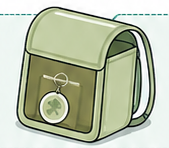
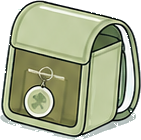
学校向け資料の4ページを issue の指摘どおりに調整
1ページ目は差し替え用PDFに合わせて、リード文を「学校法人・教育関係者様へ」に
変え、見出しから帯のアイコン見出しまで文字サイズと位置をPDFの実測値に揃えた。
本文の文言は変わっていない。

2ページ目
- 教育現場の課題／求められること の各タイトル・説明文を左寄せにし、
  アイコンと列の左端を揃えた
- 「園児・生徒の安全に関する不安」が枠幅ぎりぎりで、フォント次第で
  「に」だけ折り返していたため枠を広げた
- 課題の説明文を大きくし、収まるようにブロック全体を少し上げた

3ページ目
- STEP1の説明を3行にし、イラストと重ならない位置まで下げた
- カバンのイラストから焼き込まれていた点線枠と白背景を落として透過にし、
  点線枠の中に収めた。枠の中はグリーン一色になる
- 「園児・児童の安心・安全を高める」を「園児・児童の安全を高める」に変更

4ページ目
- 活用シーンの枠を広げ、画像と説明文が枠から出ないようにした
- 防犯グッズの画像を小さくし、下のラベルとの重なりを解消
- 問い合わせ先のアイコンを拡大し、TEL/MAIL/公式サイトの各行に合わせた
- 矢印画像を上にずらし、「まずはお気軽に〜」との重なりを解消
- 左右下部の角のイラストを削除（使わなくなった画像も削除）

Closes #7
Closes #8
Closes #9
Closes #10
Closes #11
Closes #12
Closes #13
Closes #14
Closes #15

diff --git a/flyers/school/index.html b/flyers/school/index.html
@@ -35,26 +35,26 @@
   <div class="a" style="left:6.2%;top:6.7%;width:29%;border-bottom:0.25cqw solid var(--teal2);z-index:2;"></div>
   <div class="a" style="left:35.4%;top:6.25%;width:0.9cqw;height:0.9cqw;background:var(--teal2);border-radius:50%;z-index:2;"></div>
 
-  <div class="t teal bold" style="left:6.5%;top:4.3%;width:31%;font-size:1.75cqw;">学校法人・教育機関向け</div>
-  <div class="t black heavy lh-tight" style="left:6.0%;top:9.7%;width:37%;font-size:4.15cqw;">迷子・忘れ物解決<br>ICタグ/システム</div>
-  <div class="t dark heavy" style="left:5.6%;top:23.0%;width:49%;font-size:5.8cqw;">児童に持たせる</div>
-  <div class="t teal display" style="left:5.3%;top:29.2%;width:18%;font-size:9.2cqw;">安心</div>
-  <div class="t dark heavy" style="left:25.8%;top:31.0%;width:34%;font-size:5.8cqw;">のお守り。</div>
-  <div class="t teal bold lh-wide" style="left:6.0%;top:38.1%;width:46%;font-size:2.05cqw;">迷子・忘れ物対策を、個人情報を守りながら、<br>もっとスムーズに。</div>
+  <div class="t teal bold" style="left:6.4%;top:3.4%;width:35%;font-size:2.19cqw;">学校法人・教育関係者様へ</div>
+  <div class="t black heavy" style="left:6.0%;top:8.6%;width:40%;font-size:4.12cqw;line-height:1.36;">迷子・忘れ物解決<br>ICタグ/システム</div>
+  <div class="t dark heavy" style="left:5.0%;top:20.9%;width:52%;font-size:6.58cqw;">児童に持たせる</div>
+  <div class="t teal display" style="left:5.0%;top:28.3%;width:22%;font-size:9.75cqw;">安心</div>
+  <div class="t dark heavy" style="left:25.8%;top:29.2%;width:36%;font-size:6.58cqw;">のお守り。</div>
+  <div class="t teal bold" style="left:6.0%;top:36.9%;width:50%;font-size:2.19cqw;line-height:1.72;">迷子・忘れ物対策を、個人情報を守りながら、<br>もっとスムーズに。</div>
   <div class="a" style="left:6.0%;top:44.3%;width:44%;border-bottom:0.32cqw dotted var(--teal2);z-index:2;"></div>
-  <div class="t dark bold lh-body" style="left:6.0%;top:45.6%;width:46%;font-size:1.7cqw;">このサービスは、ICタグとスマートフォンを<br>活用した迷子・忘れ物解決システムです。<br>キーホルダーやランドセルカバーなどにICタグを内蔵し、<br>園児・児童一人ひとりに“もしもの時の連絡手段”を<br>持たせることができます。<br>発見者は、スマートフォンをICタグにかざすだけで<br>持ち主・保護者と匿名で連絡ができるため、<br>氏名・電話番号・住所などの個人情報を<br>外側に表示する必要がありません。</div>
-  <div class="t teal bold center" style="left:7.6%;top:77.6%;width:8%;font-size:1.55cqw;">発見</div>
-  <div class="t teal bold center" style="left:21.0%;top:77.6%;width:14%;font-size:1.55cqw;">スマホでかざす</div>
-  <div class="t teal bold center" style="left:36.6%;top:77.6%;width:8%;font-size:1.55cqw;">匿名で連絡</div>
-  <div class="t teal bold center" style="left:3%;top:85.1%;width:94%;font-size:2.0cqw;">＼　園・学校全体で取り組む、安心の仕組み。　／</div>
-  <div class="t navy bold center" style="left:2.8%;top:94.4%;width:10.5%;font-size:1.38cqw;">全校配布</div>
-  <div class="t navy bold center" style="left:14.1%;top:94.4%;width:10.5%;font-size:1.38cqw;">入学記念品</div>
-  <div class="t navy bold center lh-tight" style="left:25.4%;top:94.0%;width:11.6%;font-size:1.35cqw;">ランドセル<br>カバー</div>
-  <div class="t navy bold center" style="left:37.4%;top:94.0%;width:11.2%;font-size:1.3cqw;">通学キーホルダー</div>
-  <div class="t navy bold center" style="left:49.5%;top:94.4%;width:10.4%;font-size:1.35cqw;">忘れ物対策</div>
-  <div class="t navy bold center" style="left:61.0%;top:94.4%;width:10.4%;font-size:1.35cqw;">迷子対策</div>
-  <div class="t navy bold center" style="left:72.5%;top:94.4%;width:11.0%;font-size:1.3cqw;">個人情報保護</div>
-  <div class="t navy bold center lh-tight" style="left:84.3%;top:94.0%;width:12.5%;font-size:1.28cqw;">保護者への<br>安心提供</div>
+  <div class="t dark bold" style="left:6.0%;top:44.9%;width:48%;font-size:1.76cqw;line-height:1.92;">このサービスは、ICタグとスマートフォンを<br>活用した迷子・忘れ物解決システムです。<br>キーホルダーやランドセルカバーなどにICタグを内蔵し、<br>園児・児童一人ひとりに“もしもの時の連絡手段”を<br>持たせることができます。<br>発見者は、スマートフォンをICタグにかざすだけで<br>持ち主・保護者と匿名で連絡ができるため、<br>氏名・電話番号・住所などの個人情報を<br>外側に表示する必要がありません。</div>
+  <div class="t teal bold center" style="left:7.9%;top:77.1%;width:8%;font-size:1.68cqw;">発見</div>
+  <div class="t teal bold center" style="left:20.1%;top:77.1%;width:14%;font-size:1.68cqw;">スマホでかざす</div>
+  <div class="t teal bold center" style="left:36.4%;top:77.1%;width:13%;font-size:1.68cqw;">匿名で連絡</div>
+  <div class="t teal bold center" style="left:3%;top:84.4%;width:94%;font-size:2.19cqw;">＼　園・学校全体で取り組む、安心の仕組み。　／</div>
+  <div class="t navy bold center" style="left:2.9%;top:94.1%;width:12%;font-size:1.68cqw;">全校配布</div>
+  <div class="t navy bold center" style="left:14.8%;top:94.1%;width:12%;font-size:1.68cqw;">入学記念品</div>
+  <div class="t navy bold center" style="left:25.8%;top:93.4%;width:12%;font-size:1.68cqw;line-height:1.35;">ランドセル<br>カバー</div>
+  <div class="t navy bold center" style="left:37.9%;top:93.4%;width:13%;font-size:1.68cqw;line-height:1.35;">通学<br>キーホルダー</div>
+  <div class="t navy bold center" style="left:50.9%;top:94.1%;width:12%;font-size:1.68cqw;">忘れ物対策</div>
+  <div class="t navy bold center" style="left:62.9%;top:94.1%;width:12%;font-size:1.68cqw;">迷子対策</div>
+  <div class="t navy bold center" style="left:74.0%;top:94.1%;width:12.5%;font-size:1.68cqw;">個人情報保護</div>
+  <div class="t navy bold center" style="left:85.6%;top:93.4%;width:13%;font-size:1.68cqw;line-height:1.35;">保護者への<br>安心提供</div>
 </section>
 
 <!-- ============ 2ページ目 ============ -->
@@ -68,23 +68,23 @@
   <div class="t dark bold center lh-wide" style="left:2.5%;top:20.4%;width:58%;font-size:1.55cqw;">日々の生活や通園・通学の中で、迷子や忘れ物は誰にでも起こりうること。<br>しかし、現場では<span class="orange">多くの時間と手間が取られています。</span></div>
 
   <!-- 教育現場の課題 -->
-  <div class="pill" style="left:4%;top:26.4%;width:23.5%;height:2.6%;font-size:2.1cqw;border-radius:0.6cqw;">教育現場の課題</div>
-  <div class="panelbox" style="left:2%;top:28.9%;width:96%;height:26.4%;z-index:0;"></div>
-  <div class="card" style="left:3%;top:29.4%;width:94%;height:25.2%;"></div>
-  <div class="dashv" style="left:35.7%;top:31.5%;height:20.5%;"></div>
-  <div class="dashv" style="left:66.3%;top:31.5%;height:20.5%;"></div>
-  <img class="a" src="images/p2_icon_k1.png" style="left:4.2%;top:30.8%;width:7.4%;z-index:2;" alt="">
-  <img class="a" src="images/p2_icon_k2.png" style="left:40.0%;top:30.8%;width:6.8%;z-index:2;" alt="">
-  <img class="a" src="images/p2_icon_k3.png" style="left:67.4%;top:30.8%;width:7.2%;z-index:2;" alt="">
-  <div class="t teal heavy center lh-wide" style="left:13.2%;top:32.4%;width:19.5%;font-size:2.15cqw;">園児・生徒の安全に<br>関する不安</div>
-  <div class="t teal heavy center lh-wide" style="left:46.7%;top:32.4%;width:19.5%;font-size:2.15cqw;">忘れ物対応の<br>負担が大きい</div>
-  <div class="t teal heavy center lh-wide" style="left:78.0%;top:32.4%;width:19.5%;font-size:2.15cqw;">先生方の業務負担<br>が増えている</div>
-  <div class="dotline" style="left:14%;top:38.3%;width:18%;"></div>
-  <div class="dotline" style="left:48%;top:38.3%;width:17%;"></div>
-  <div class="dotline" style="left:79%;top:38.3%;width:17.5%;"></div>
-  <div class="t dark bold lh-body" style="left:4.9%;top:40.1%;width:27%;font-size:1.46cqw;"><span class="bullet">●</span> 迷子になったときの迅速な<br>　連絡手段がない<br><br><span class="bullet">●</span> 園外活動や通園・通学時の<br>　安全確保が課題<br><br><span class="bullet">●</span> 個人情報の取り扱いに配慮が必要</div>
-  <div class="t dark bold lh-body" style="left:37.4%;top:40.1%;width:27%;font-size:1.46cqw;"><span class="bullet">●</span> 忘れ物の問い合わせが<br>　日常的に発生<br><br><span class="bullet">●</span> 持ち主の特定や連絡に<br>　時間がかかる<br><br><span class="bullet">●</span> 保管・管理の手間や<br>　スペースの確保も必要</div>
-  <div class="t dark bold lh-body" style="left:69.6%;top:40.1%;width:27.5%;font-size:1.46cqw;"><span class="bullet">●</span> 迷子や忘れ物対応に<br>　多くの時間を取られる<br><br><span class="bullet">●</span> 保護者への連絡や確認作業が<br>　煩雑に<br><br><span class="bullet">●</span> 本来の活動に集中する時間が<br>　削られてしまう</div>
+  <div class="pill" style="left:4%;top:24.6%;width:23.5%;height:2.6%;font-size:2.1cqw;border-radius:0.6cqw;">教育現場の課題</div>
+  <div class="panelbox" style="left:2%;top:27.1%;width:96%;height:28.0%;z-index:0;"></div>
+  <div class="card" style="left:3%;top:27.6%;width:94%;height:26.9%;"></div>
+  <div class="dashv" style="left:35.7%;top:29.7%;height:22.2%;"></div>
+  <div class="dashv" style="left:66.3%;top:29.7%;height:22.2%;"></div>
+  <img class="a" src="images/p2_icon_k1.png" style="left:4.2%;top:29.0%;width:7.4%;z-index:2;" alt="">
+  <img class="a" src="images/p2_icon_k2.png" style="left:36.9%;top:29.0%;width:6.8%;z-index:2;" alt="">
+  <img class="a" src="images/p2_icon_k3.png" style="left:67.4%;top:29.0%;width:7.2%;z-index:2;" alt="">
+  <div class="t teal heavy lh-wide" style="left:13.0%;top:30.6%;width:22%;font-size:2.15cqw;">園児・生徒の安全に<br>関する不安</div>
+  <div class="t teal heavy lh-wide" style="left:45.7%;top:30.6%;width:20%;font-size:2.15cqw;">忘れ物対応の<br>負担が大きい</div>
+  <div class="t teal heavy lh-wide" style="left:76.3%;top:30.6%;width:20.5%;font-size:2.15cqw;">先生方の業務負担<br>が増えている</div>
+  <div class="dotline" style="left:13.0%;top:36.5%;width:18%;"></div>
+  <div class="dotline" style="left:45.7%;top:36.5%;width:18%;"></div>
+  <div class="dotline" style="left:76.3%;top:36.5%;width:18%;"></div>
+  <div class="t dark bold lh-body" style="left:4.9%;top:38.3%;width:29%;font-size:1.6cqw;"><span class="bullet">●</span> 迷子になったときの迅速な<br>　連絡手段がない<br><br><span class="bullet">●</span> 園外活動や通園・通学時の<br>　安全確保が課題<br><br><span class="bullet">●</span> 個人情報の取り扱いに配慮が必要</div>
+  <div class="t dark bold lh-body" style="left:37.6%;top:38.3%;width:28%;font-size:1.6cqw;"><span class="bullet">●</span> 忘れ物の問い合わせが<br>　日常的に発生<br><br><span class="bullet">●</span> 持ち主の特定や連絡に<br>　時間がかかる<br><br><span class="bullet">●</span> 保管・管理の手間や<br>　スペースの確保も必要</div>
+  <div class="t dark bold lh-body" style="left:68.2%;top:38.3%;width:29%;font-size:1.6cqw;"><span class="bullet">●</span> 迷子や忘れ物対応に<br>　多くの時間を取られる<br><br><span class="bullet">●</span> 保護者への連絡や確認作業が<br>　煩雑に<br><br><span class="bullet">●</span> 本来の活動に集中する時間が<br>　削られてしまう</div>
 
   <!-- よくある迷子・忘れ物の例 -->
   <div class="panelbox" style="left:3%;top:56.8%;width:94%;height:14.4%;"></div>
@@ -106,15 +106,15 @@
   <img class="a" src="images/p2_icon_m1.png" style="left:4.4%;top:78.2%;width:6.8%;z-index:2;" alt="">
   <img class="a" src="images/p2_icon_m2.png" style="left:36.4%;top:78.2%;width:6.8%;z-index:2;" alt="">
   <img class="a" src="images/p2_icon_m3.png" style="left:68.0%;top:78.2%;width:6.8%;z-index:2;" alt="">
-  <div class="t blue heavy center lh-wide" style="left:11.5%;top:79.8%;width:21%;font-size:1.95cqw;">園児・生徒の安全を<br>最優先に守ること</div>
-  <div class="t blue heavy center lh-wide" style="left:43.5%;top:79.8%;width:22%;font-size:1.95cqw;">先生方の業務負担を<br>軽減すること</div>
-  <div class="t blue heavy center lh-wide" style="left:75.3%;top:79.8%;width:23%;font-size:1.95cqw;">先生・保護者の負担を<br>減らせること</div>
-  <div class="dotline" style="left:12.5%;top:85.3%;width:19%;"></div>
-  <div class="dotline" style="left:45%;top:85.3%;width:19%;"></div>
-  <div class="dotline" style="left:77%;top:85.3%;width:19.5%;"></div>
-  <div class="t dark bold center lh-wide" style="left:5.5%;top:86.6%;width:27%;font-size:1.42cqw;">迅速かつ確実に保護者へ<br>つなげられる仕組みが必要です。</div>
-  <div class="t dark bold center lh-wide" style="left:37.3%;top:86.6%;width:27%;font-size:1.42cqw;">効率的な対応で、<br>先生方の負担を減らすことが<br>求められています。</div>
-  <div class="t dark bold center lh-wide" style="left:69.0%;top:86.6%;width:28%;font-size:1.42cqw;">安心して預けられる環境づくりと、<br>保護者との信頼関係の構築が<br>大切です。</div>
+  <div class="t blue heavy lh-wide" style="left:11.7%;top:79.8%;width:21%;font-size:1.95cqw;">園児・生徒の安全を<br>最優先に守ること</div>
+  <div class="t blue heavy lh-wide" style="left:44.4%;top:79.8%;width:22%;font-size:1.95cqw;">先生方の業務負担を<br>軽減すること</div>
+  <div class="t blue heavy lh-wide" style="left:75.0%;top:79.8%;width:23%;font-size:1.95cqw;">先生・保護者の負担を<br>減らせること</div>
+  <div class="dotline" style="left:11.7%;top:85.3%;width:19%;"></div>
+  <div class="dotline" style="left:44.4%;top:85.3%;width:19%;"></div>
+  <div class="dotline" style="left:75.0%;top:85.3%;width:19.5%;"></div>
+  <div class="t dark bold lh-wide" style="left:5.0%;top:86.6%;width:29%;font-size:1.42cqw;">迅速かつ確実に保護者へ<br>つなげられる仕組みが必要です。</div>
+  <div class="t dark bold lh-wide" style="left:37.7%;top:86.6%;width:28%;font-size:1.42cqw;">効率的な対応で、<br>先生方の負担を減らすことが<br>求められています。</div>
+  <div class="t dark bold lh-wide" style="left:68.3%;top:86.6%;width:29%;font-size:1.42cqw;">安心して預けられる環境づくりと、<br>保護者との信頼関係の構築が<br>大切です。</div>
   <div class="t teal heavy center" style="left:6.2%;top:95.0%;width:88%;font-size:2.45cqw;">＼迷子・忘れ物解決ＩＣタグは、これらの課題を解決します！／</div>
 </section>
 
@@ -147,18 +147,18 @@
   <div class="t blue heavy center lh-wide" style="left:29.2%;top:38.1%;width:19%;font-size:2.0cqw;">発見者が<br>スマートフォンを<br>かざす</div>
   <div class="t teal heavy center lh-wide" style="left:52.5%;top:38.1%;width:19%;font-size:2.0cqw;">持ち主・保護者へ<br>つながる</div>
   <div class="t blue heavy center lh-wide" style="left:76.0%;top:38.1%;width:19%;font-size:2.0cqw;">匿名で<br>連絡・返却調整</div>
-  <img class="a" src="images/p3_step1.png" style="left:5.5%;top:44.5%;width:20%;z-index:2;" alt="学校からICタグを配布">
+  <img class="a" src="images/p3_step1.png" style="left:6.0%;top:44.5%;width:19%;z-index:2;" alt="学校からICタグを配布">
   <img class="a" src="images/p3_step2.png" style="left:28.8%;top:44.0%;width:19.7%;z-index:2;" alt="NFC対応スマートフォンで読み取り">
   <img class="a" src="images/p3_step3.png" style="left:52.5%;top:43.5%;width:18.5%;z-index:2;" alt="持ち主・保護者へつながる">
   <img class="a" src="images/p3_step4.png" style="left:75.5%;top:44.0%;width:19.5%;z-index:2;" alt="匿名で連絡・返却調整">
-  <div class="t dark bold lh-wide" style="left:6.8%;top:56.6%;width:20%;font-size:1.38cqw;line-height:1.42;">ICタグを内蔵した<br>キーホルダーや<br>ランドセルカバーを<br>配布します。</div>
+  <div class="t dark bold lh-wide" style="left:5.6%;top:57.0%;width:20.4%;font-size:1.32cqw;line-height:1.42;">ICタグを内蔵した<br>キーホルダーやランドセルカバー<br>を配布します。</div>
   <div class="t dark bold lh-wide" style="left:29.7%;top:57.8%;width:20%;font-size:1.38cqw;line-height:1.42;">NFC対応スマートフォンで<br>ICタグを読み取ります。</div>
   <div class="t dark bold lh-wide" style="left:53.1%;top:57.2%;width:20%;font-size:1.38cqw;line-height:1.42;">タグ情報をもとに、<br>登録された連絡先へ<br>通知します。</div>
   <div class="t dark bold lh-wide" style="left:76.1%;top:57.2%;width:20%;font-size:1.38cqw;line-height:1.42;">個人情報を公開せずに、<br>受け渡しのやり取りが<br>できます。</div>
 
   <!-- 個人情報非表示の帯 -->
   <div class="a" style="left:4%;top:63.4%;width:92.5%;height:12.1%;background:#eff6f2;border:0.28cqw dashed #2f8c7f;border-radius:1.5cqw;z-index:1;"></div>
-  <img class="a" src="images/p3_cover_illo.png" style="left:5.8%;top:64.1%;width:18.7%;z-index:2;" alt="ICタグを内蔵したランドセルカバー">
+  <img class="a" src="images/p3_cover_illo.png" style="left:6.0%;top:63.9%;width:15.8%;z-index:2;" alt="ICタグを内蔵したランドセルカバー">
   <img class="a" src="images/p3_lock.png" style="left:29.3%;top:65.3%;width:5.5%;z-index:2;" alt="">
   <div class="t teal heavy" style="left:35.9%;top:67.6%;width:46%;font-size:2.55cqw;">外側には個人情報を表示しません。</div>
   <div class="t dark bold" style="left:35.9%;top:71.35%;width:55%;font-size:1.25cqw;">ICタグは内側に封入できるため、見た目はすっきり、安全に運用できます。</div>
@@ -171,7 +171,7 @@
   <img class="a" src="images/p3_merit1.png" style="left:5%;top:80%;width:9%;z-index:2;" alt="">
   <img class="a" src="images/p3_merit2.png" style="left:36%;top:80%;width:8.5%;z-index:2;" alt="">
   <img class="a" src="images/p3_merit3.png" style="left:67%;top:80%;width:8.5%;z-index:2;" alt="">
-  <div class="t teal heavy lh-wide" style="left:15.3%;top:81.2%;width:18.5%;font-size:1.9cqw;">園児・児童の<br>安心・安全を高める</div>
+  <div class="t teal heavy lh-wide" style="left:15.3%;top:81.2%;width:18.5%;font-size:1.9cqw;">園児・児童の<br>安全を高める</div>
   <div class="t blue heavy lh-wide" style="left:46.0%;top:81.2%;width:18.5%;font-size:1.9cqw;">保護者への<br>安心感を提供</div>
   <div class="t teal heavy lh-wide" style="left:76.8%;top:81.2%;width:18.5%;font-size:1.9cqw;">先生の業務負担を<br>軽減</div>
   <div class="t dark bold lh-wide" style="left:15.3%;top:86.4%;width:16.5%;font-size:1.34cqw;">迷子や忘れ物の<br>発生時に、スムーズな<br>連絡につながります。</div>
@@ -184,9 +184,6 @@
 <section class="sheet" aria-label="4ページ目">
   <img class="a" src="images/p4_deco_tr.png"  style="left:81%;top:0;width:19%;" alt="">
   <img class="a" src="images/p4_deco_tr2.png" style="left:82.5%;top:18.8%;width:17.5%;" alt="">
-  <img class="a" src="images/p4_deco_br.png"  style="left:85%;top:96.4%;width:15%;" alt="">
-  <img class="a" src="images/p4_deco_bl1.png" style="left:0;top:92%;width:3.9%;" alt="">
-  <img class="a" src="images/p4_deco_bl2.png" style="left:0;top:97.8%;width:8.5%;" alt="">
 
   <div class="pill stadium" style="left:4.5%;top:2.4%;width:27%;height:2.5%;font-size:1.9cqw;">活用シーン・導入イメージ</div>
   <div class="t black heavy" style="left:5.2%;top:7.0%;width:75%;font-size:4.0cqw;">全園児・全校児童への配布で、</div>
@@ -196,24 +193,24 @@
   <!-- 活用シーン -->
   <div class="card" style="left:3.5%;top:26.2%;width:93%;height:33.6%;border-color:#dfe9e5;border-radius:1.4cqw;"></div>
   <div class="bar" style="left:3.5%;top:26.2%;width:93%;height:2.6%;font-size:2.1cqw;border-radius:1.4cqw 1.4cqw 0 0;">活用シーン</div>
-  <div class="card" style="left:4.3%;top:29.7%;width:28.7%;height:14.4%;border-color:#e8f0ec;"></div>
-  <div class="card" style="left:35.2%;top:29.7%;width:28.7%;height:14.4%;border-color:#e8f0ec;"></div>
+  <div class="card" style="left:4.2%;top:29.7%;width:29.7%;height:14.4%;border-color:#e8f0ec;"></div>
+  <div class="card" style="left:35.1%;top:29.7%;width:29.7%;height:14.4%;border-color:#e8f0ec;"></div>
   <div class="card" style="left:66.1%;top:29.7%;width:29.7%;height:14.4%;border-color:#e8f0ec;"></div>
-  <div class="card" style="left:4.3%;top:45.0%;width:28.7%;height:14.2%;border-color:#e8f0ec;"></div>
-  <div class="card" style="left:35.2%;top:45.0%;width:28.7%;height:14.2%;border-color:#e8f0ec;"></div>
+  <div class="card" style="left:4.2%;top:45.0%;width:29.7%;height:14.2%;border-color:#e8f0ec;"></div>
+  <div class="card" style="left:35.1%;top:45.0%;width:29.7%;height:14.2%;border-color:#e8f0ec;"></div>
   <div class="card" style="left:66.1%;top:45.0%;width:29.7%;height:14.2%;border-color:#e8f0ec;"></div>
-  <img class="a" src="images/p4_scene1.png" style="left:5%;top:30.3%;width:16.2%;z-index:2;" alt="新入生の男女">
-  <img class="a" src="images/p4_scene2.png" style="left:35%;top:30.3%;width:17.2%;z-index:2;" alt="園児3人">
-  <img class="a" src="images/p4_scene3.png" style="left:66.5%;top:30.3%;width:13.5%;z-index:2;" alt="ランドセルカバー">
-  <img class="a" src="images/p4_scene4.png" style="left:4.5%;top:44.8%;width:15.7%;z-index:2;" alt="鍵とキーホルダー">
-  <img class="a" src="images/p4_scene5.png" style="left:35%;top:44.8%;width:17.4%;z-index:2;" alt="校外学習の子どもたち">
-  <img class="a" src="images/p4_scene6.png" style="left:66%;top:44.5%;width:14%;z-index:2;" alt="傘・水筒・バッグ">
-  <div class="t dark bold lh-wide" style="left:21.5%;top:35.5%;width:13%;font-size:1.45cqw;">新入生への<br>入学記念品として</div>
-  <div class="t dark bold lh-wide" style="left:52.5%;top:35.5%;width:14%;font-size:1.45cqw;">全園児・児童への<br>一斉配布として</div>
-  <div class="t dark bold lh-wide" style="left:80.2%;top:35.5%;width:16.5%;font-size:1.45cqw;">ランドセルカバーへの<br>標準装備として</div>
-  <div class="t dark bold lh-wide" style="left:20.5%;top:50.7%;width:14%;font-size:1.45cqw;">通学用<br>キーホルダーとして</div>
-  <div class="t dark bold lh-wide" style="left:52.5%;top:49.2%;width:15%;font-size:1.45cqw;">校外学習・<br>修学旅行時の<br>見守り対策として</div>
-  <div class="t dark bold lh-wide" style="left:80.3%;top:48.9%;width:15.5%;font-size:1.45cqw;">傘・水筒・バッグ<br>などの忘れ物<br>対策として</div>
+  <img class="a" src="images/p4_scene1.png" style="left:4.8%;top:30.3%;width:15%;z-index:2;" alt="新入生の男女">
+  <img class="a" src="images/p4_scene2.png" style="left:35.7%;top:30.3%;width:15.5%;z-index:2;" alt="園児3人">
+  <img class="a" src="images/p4_scene3.png" style="left:66.7%;top:30.3%;width:12.5%;z-index:2;" alt="ランドセルカバー">
+  <img class="a" src="images/p4_scene4.png" style="left:4.6%;top:45.5%;width:14%;z-index:2;" alt="鍵とキーホルダー">
+  <img class="a" src="images/p4_scene5.png" style="left:35.7%;top:45.5%;width:15.7%;z-index:2;" alt="校外学習の子どもたち">
+  <img class="a" src="images/p4_scene6.png" style="left:66.7%;top:45.5%;width:12.6%;z-index:2;" alt="傘・水筒・バッグ">
+  <div class="t dark bold lh-wide" style="left:20.4%;top:35.5%;width:13.2%;font-size:1.45cqw;">新入生への<br>入学記念品として</div>
+  <div class="t dark bold lh-wide" style="left:51.9%;top:35.5%;width:12.7%;font-size:1.45cqw;">全園児・児童への<br>一斉配布として</div>
+  <div class="t dark bold lh-wide" style="left:79.9%;top:35.5%;width:15.6%;font-size:1.45cqw;">ランドセルカバーへの<br>標準装備として</div>
+  <div class="t dark bold lh-wide" style="left:19.4%;top:50.7%;width:14.4%;font-size:1.45cqw;">通学用<br>キーホルダーとして</div>
+  <div class="t dark bold lh-wide" style="left:52.1%;top:49.2%;width:12.5%;font-size:1.45cqw;">校外学習・<br>修学旅行時の<br>見守り対策として</div>
+  <div class="t dark bold lh-wide" style="left:79.9%;top:48.9%;width:15.6%;font-size:1.45cqw;">傘・水筒・バッグ<br>などの忘れ物<br>対策として</div>
 
   <!-- 導入イメージ -->
   <div class="card" style="left:3.5%;top:60.1%;width:93%;height:17.8%;border-color:#dfe9e5;border-radius:1.4cqw;"></div>
@@ -223,7 +220,7 @@
   <img class="a" src="images/p4_item2.png" style="left:27.5%;top:64%;width:13%;z-index:2;" alt="キーホルダー">
   <img class="a" src="images/p4_item3.png" style="left:43.5%;top:64%;width:14%;z-index:2;" alt="ネームタグ">
   <img class="a" src="images/p4_item4.png" style="left:59.5%;top:63.3%;width:17%;z-index:2;" alt="通学バッグ用アクセサリー">
-  <img class="a" src="images/p4_item5.png" style="left:78.5%;top:63.5%;width:14%;z-index:2;" alt="防犯グッズ">
+  <img class="a" src="images/p4_item5.png" style="left:81.2%;top:63.5%;width:11%;z-index:2;" alt="防犯グッズ">
   <div class="t dark bold center" style="left:10.1%;top:75.9%;width:15%;font-size:1.25cqw;z-index:3;"><span class="bullet">●</span> ランドセルカバー</div>
   <div class="t dark bold center" style="left:28.6%;top:75.9%;width:13%;font-size:1.25cqw;z-index:3;"><span class="bullet">●</span> キーホルダー</div>
   <div class="t dark bold center" style="left:45.8%;top:75.9%;width:12%;font-size:1.25cqw;z-index:3;"><span class="bullet">●</span> ネームタグ</div>
@@ -237,11 +234,11 @@
   <div class="t black" style="left:7.2%;top:86.6%;width:37%;font-size:2.55cqw;z-index:2;">株式会社 SoundForest</div>
   <div class="t black" style="left:7.2%;top:92.0%;width:28%;font-size:2.05cqw;z-index:2;">担当：荒川雅子</div>
   <div class="dashv" style="left:43.5%;top:87.5%;height:8.8%;border-left-color:#9ec9c2;"></div>
-  <img class="a" src="images/p4_contact_icons.png" style="left:44.6%;top:88.2%;width:2.4%;z-index:2;" alt="">
+  <img class="a" src="images/p4_contact_icons.png" style="left:43.4%;top:88.3%;width:5.1%;z-index:2;" alt="">
   <div class="t dark bold" style="left:48.6%;top:88.6%;width:27%;font-size:1.55cqw;z-index:2;">TEL：042-404-2406</div>
   <div class="t dark bold" style="left:48.6%;top:91.4%;width:32%;font-size:1.55cqw;z-index:2;">MAIL：contact@soundforest.life</div>
   <div class="t dark bold" style="left:48.6%;top:94.2%;width:35%;font-size:1.55cqw;z-index:2;">公式サイト：https://tagppi.life/</div>
-  <img class="a" src="images/p4_arrow_btn.png" style="left:77%;top:85.3%;width:12%;z-index:2;" alt="">
+  <img class="a" src="images/p4_arrow_btn.png" style="left:77%;top:83.5%;width:12%;z-index:2;" alt="">
   <div class="t orange heavy center lh-wide" style="left:76.5%;top:92.2%;width:19.5%;font-size:1.55cqw;z-index:2;">まずはお気軽に<br>お問い合わせください</div>
 </section>
 
